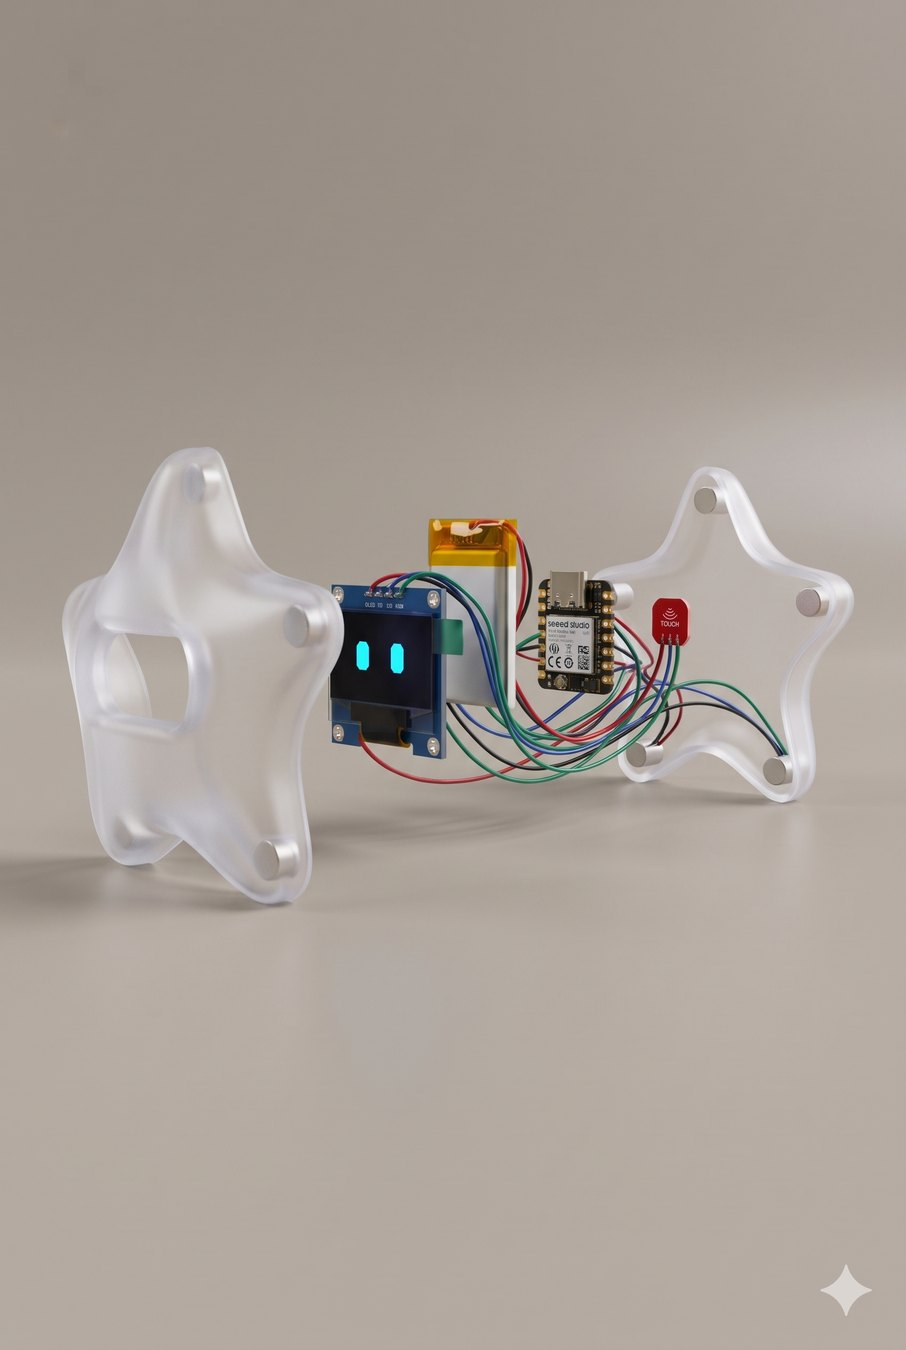
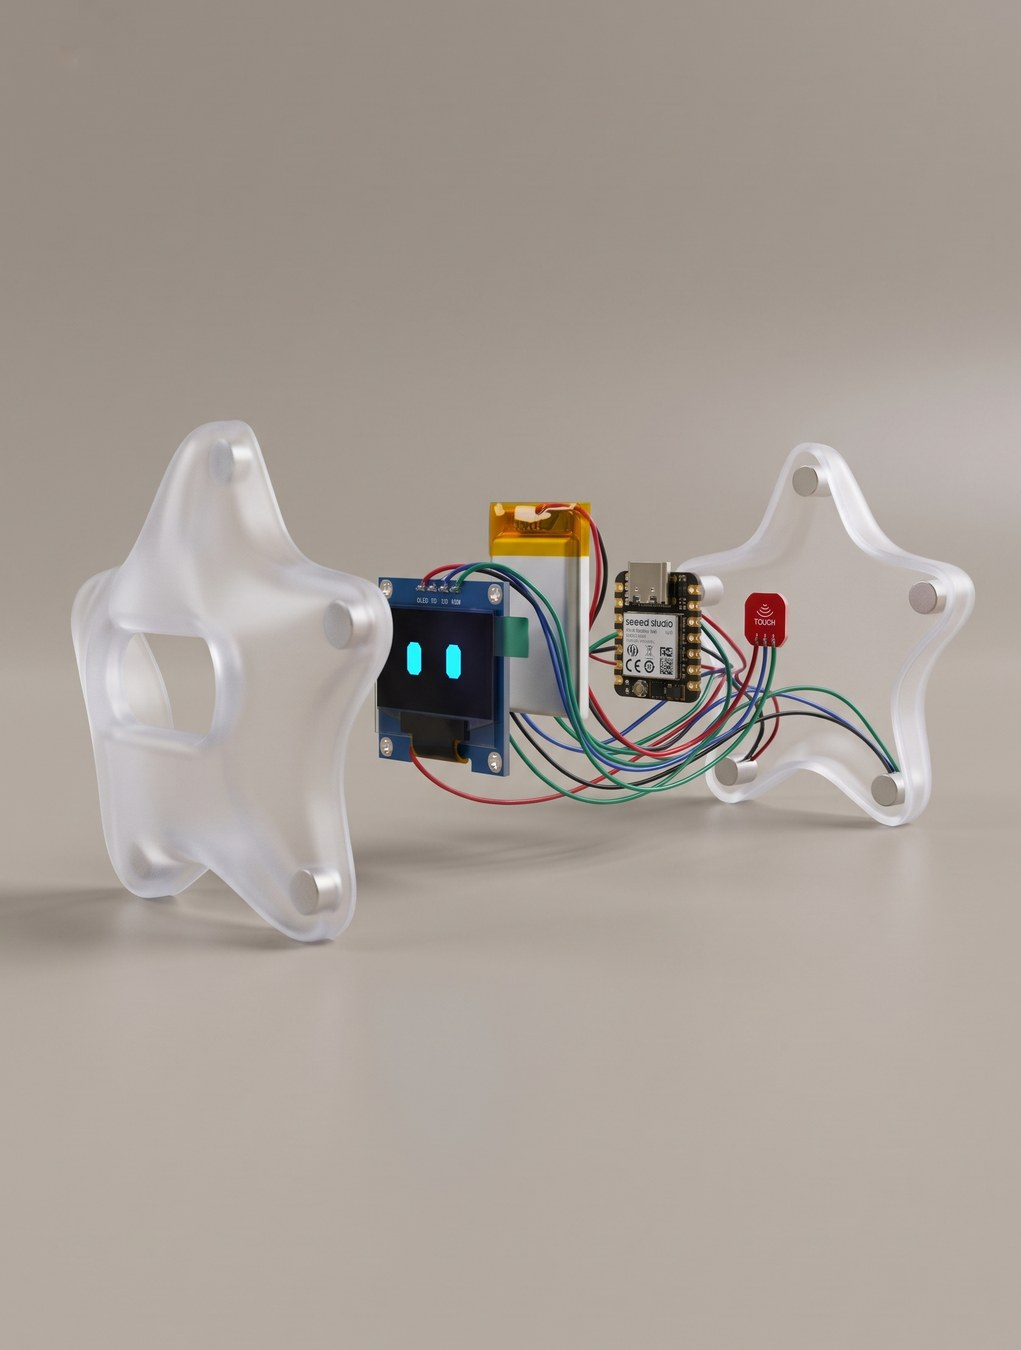
Re-upload star.png
Claude-Session: https://claude.ai/code/session_01Ru2aeA2zXTgygR9fKWt5Wh

diff --git a/index.html b/index.html
@@ -8,7 +8,7 @@
   <link rel="preconnect" href="https://fonts.googleapis.com">
   <link rel="preconnect" href="https://fonts.gstatic.com" crossorigin>
   <link href="https://fonts.googleapis.com/css2?family=IBM+Plex+Mono:wght@400;500&family=Inter+Tight:wght@600&display=swap" rel="stylesheet">
-  <link rel="stylesheet" href="style.css?v=22">
+  <link rel="stylesheet" href="style.css?v=23">
 </head>
 <body class="home">
 
@@ -42,7 +42,7 @@
 
   <canvas id="dragonfly" aria-hidden="true"></canvas>
 
-  <script src="js/home.js?v=22"></script>
-  <script src="js/dragonfly.js?v=22"></script>
+  <script src="js/home.js?v=23"></script>
+  <script src="js/dragonfly.js?v=23"></script>
 </body>
 </html>

diff --git a/js/home.js b/js/home.js
@@ -16,7 +16,7 @@ const WORKS = [
   'assets/work/11.jpg',
 ];
 
-const MEDIA_VERSION = 10;   // bump this number whenever you replace a file with the same name
+const MEDIA_VERSION = 11;   // bump this number whenever you replace a file with the same name
 const CARD_COUNT = WORKS.length;   // one page for each work
 const SPIN_SPEED = 16;      // degrees per second around the spine
 
